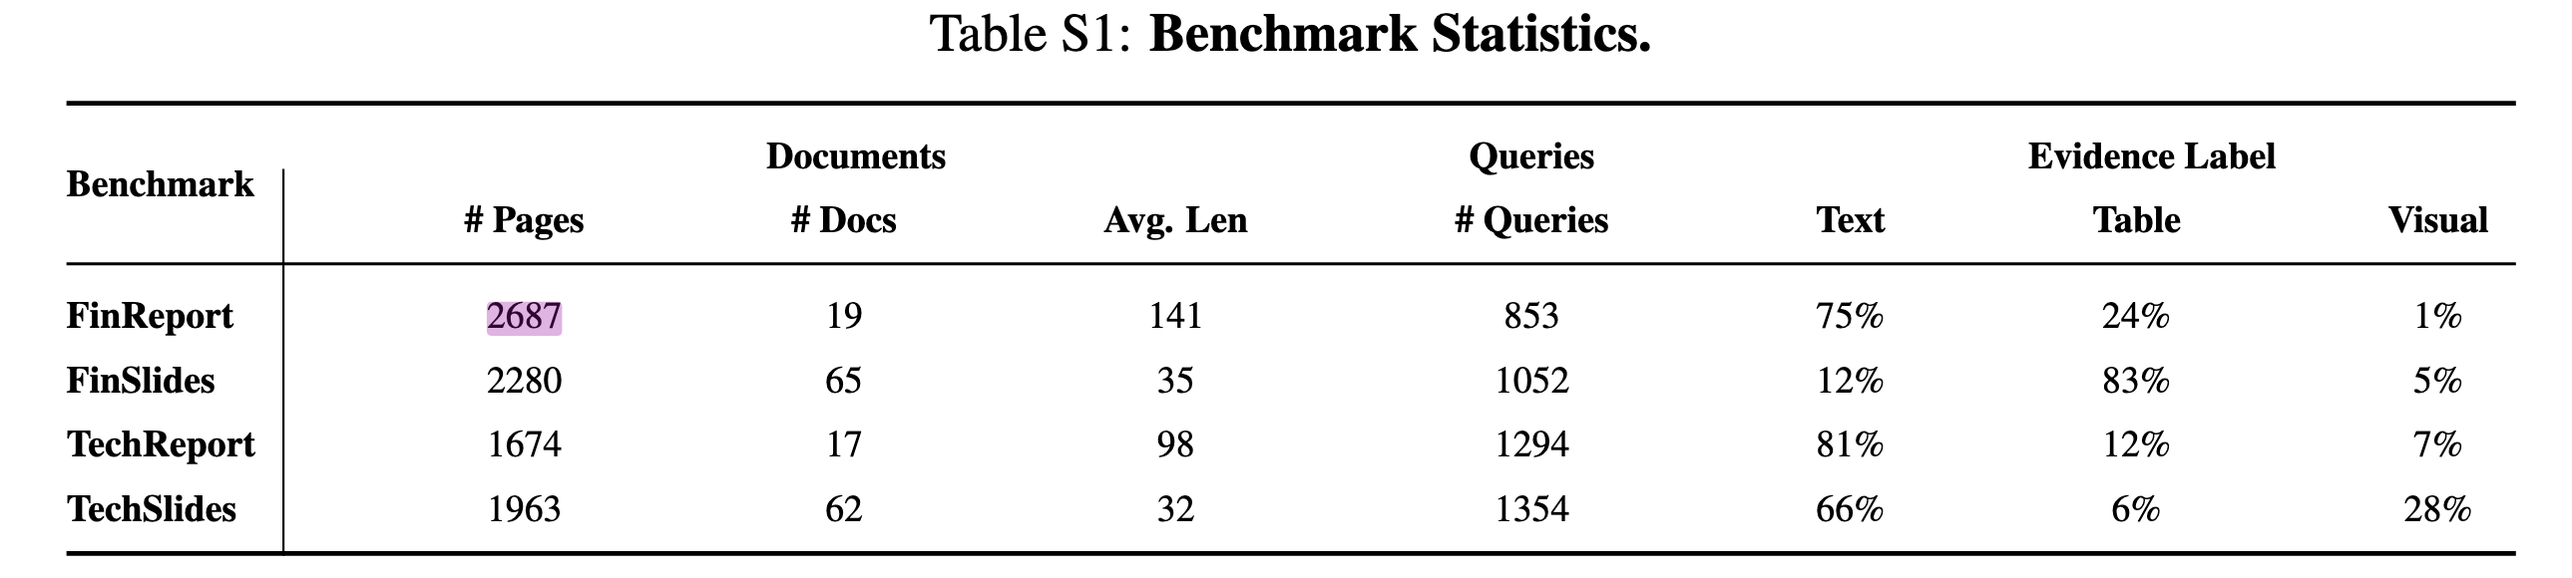
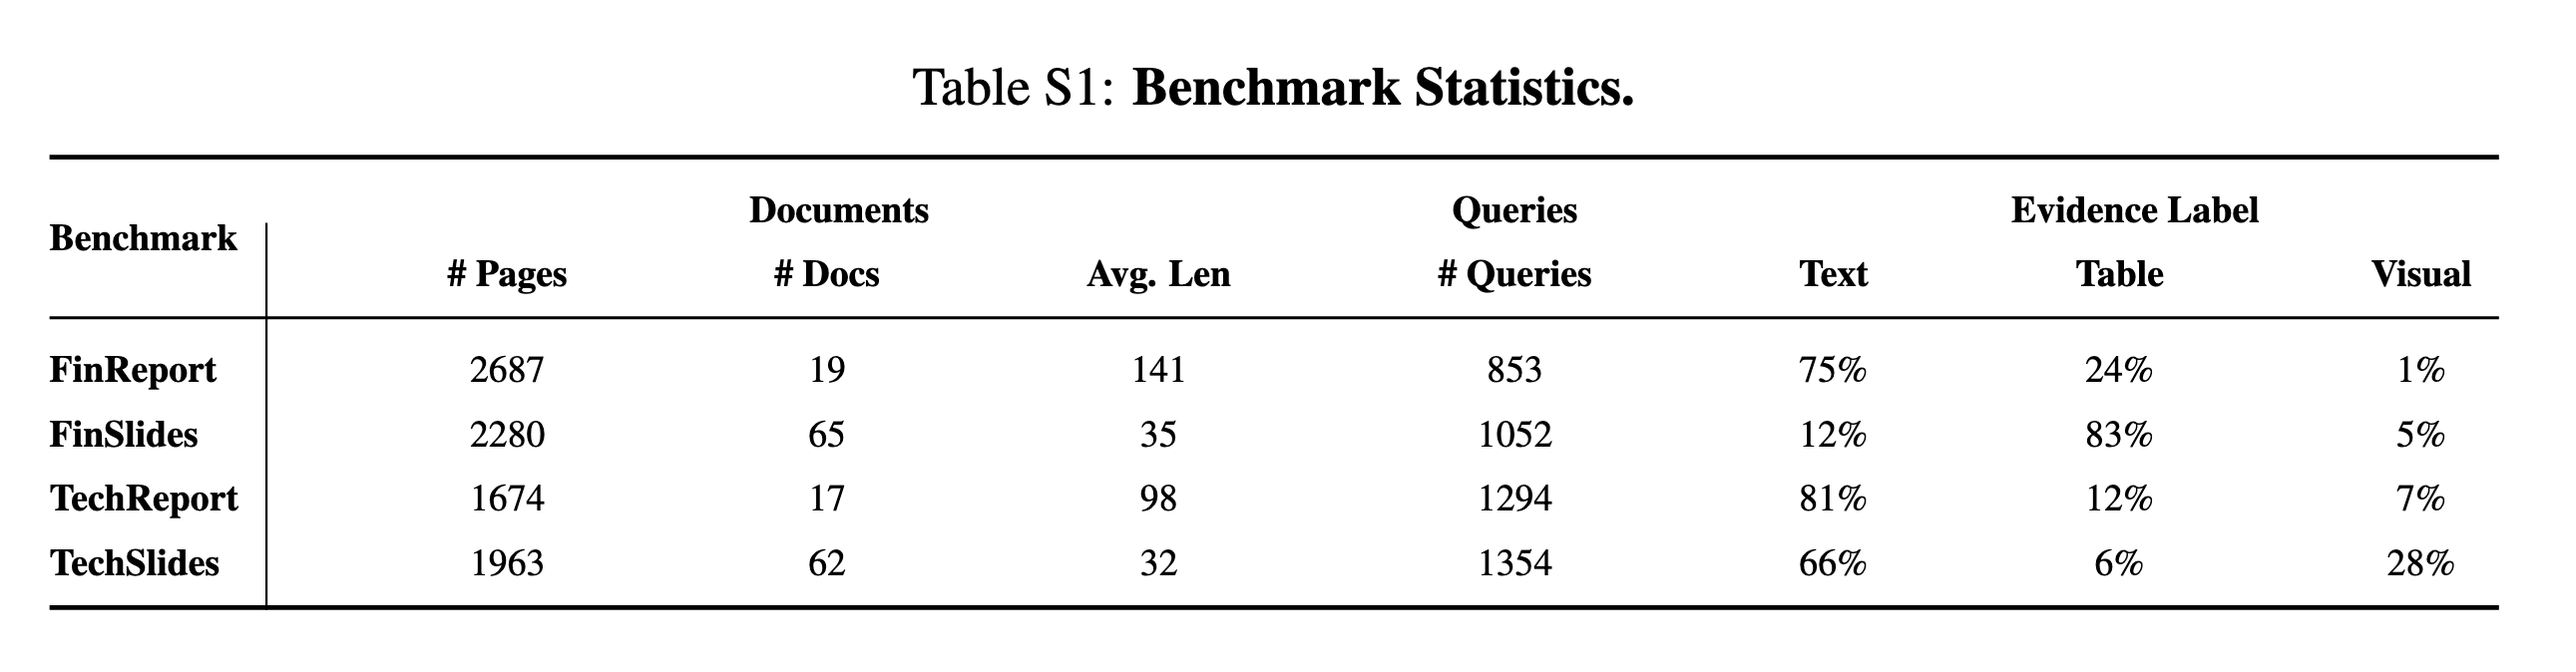
feat: update readme

diff --git a/lmpkb/store/vector_store.py b/lmpkb/store/vector_store.py
@@ -24,13 +24,15 @@ class VectorStore:
             metadata={"hnsw:space": "cosine"},
         )
 
-        self.directory =  Path(os.environ.get("LMPKB_CONFIG")).parent 
+        config_path = os.environ.get("LMPKB_CONFIG")
+        self.directory = Path(config_path).resolve().parent if config_path else Path.cwd()
 
     def index(self, embedding: list[float], source: str, page_number: int) -> None:
+        source_path = str(Path(source).resolve())
         self.collection.upsert(
-            ids=[f"{source}::{page_number}"],
+            ids=[f"{source_path}::{page_number}"],
             embeddings=[embedding],
-            metadatas=[{"source": source, "page_number": page_number}],
+            metadatas=[{"source": source_path, "page_number": page_number}],
         )
 
     def retrieve(self, query_embedding: list[float], top_k: int) -> list[RetrievedPage]:
@@ -41,7 +43,8 @@ class VectorStore:
         )
         pages = []
         for meta in results["metadatas"][0]:
-            source = self.directory / meta["source"]
+            stored_source = Path(meta["source"])
+            source = stored_source if stored_source.is_absolute() else self.directory / stored_source
             page_number = meta["page_number"]
             image = load_pdf(source)[page_number][1]
             pages.append(RetrievedPage(image=image, source=str(source), page_number=page_number))

diff --git a/lmpkb/agent/config.py b/lmpkb/agent/config.py
@@ -4,6 +4,11 @@ from pathlib import Path
 from typing import Literal
 
 import yaml
+from dotenv import load_dotenv
+
+load_dotenv()
+_PROJECT_ROOT = Path(__file__).resolve().parents[2]
+load_dotenv(_PROJECT_ROOT / ".env")
 
 ModelType = Literal["ollama", "openai"]
 
@@ -44,14 +49,19 @@ def _load_yaml_config(config_path: str | None) -> tuple[Path | None, dict]:
             if not resolved_path.exists():
                 raise ValueError(f"Config file from {_ENV_CONFIG_VAR} not found: {env_path}")
         else:
-            for candidate in _DEFAULT_CONFIG_FILES:
-                candidate_path = Path(candidate)
-                if candidate_path.exists():
-                    resolved_path = candidate_path.resolve()
+            for base_dir in (Path.cwd(), _PROJECT_ROOT):
+                for candidate in _DEFAULT_CONFIG_FILES:
+                    candidate_path = base_dir / candidate
+                    if candidate_path.exists():
+                        resolved_path = candidate_path.resolve()
+                        break
+                if resolved_path is not None:
                     break
 
     if resolved_path is None:
         return None, {}
+
+    os.environ[_ENV_CONFIG_VAR] = str(resolved_path)
 
     data = yaml.safe_load(resolved_path.read_text()) or {}
     if not isinstance(data, dict):

diff --git a/README.md b/README.md
@@ -139,7 +139,7 @@ lmpkb --model-type openai --model gpt-5.2 --reasoning medium --top-k 3
   <img src="assets/needed_context_2.png" alt="multi hop 2" width="500" />
 </p>
 
-**Multi Hop Retrieval Loop (with Subqueries)**
+**Multi Hop Retrieval Loop (with Subqueries and Code Execuation)**
 
 ![Multi Hop Video](assets/multi-hop.gif)
 
